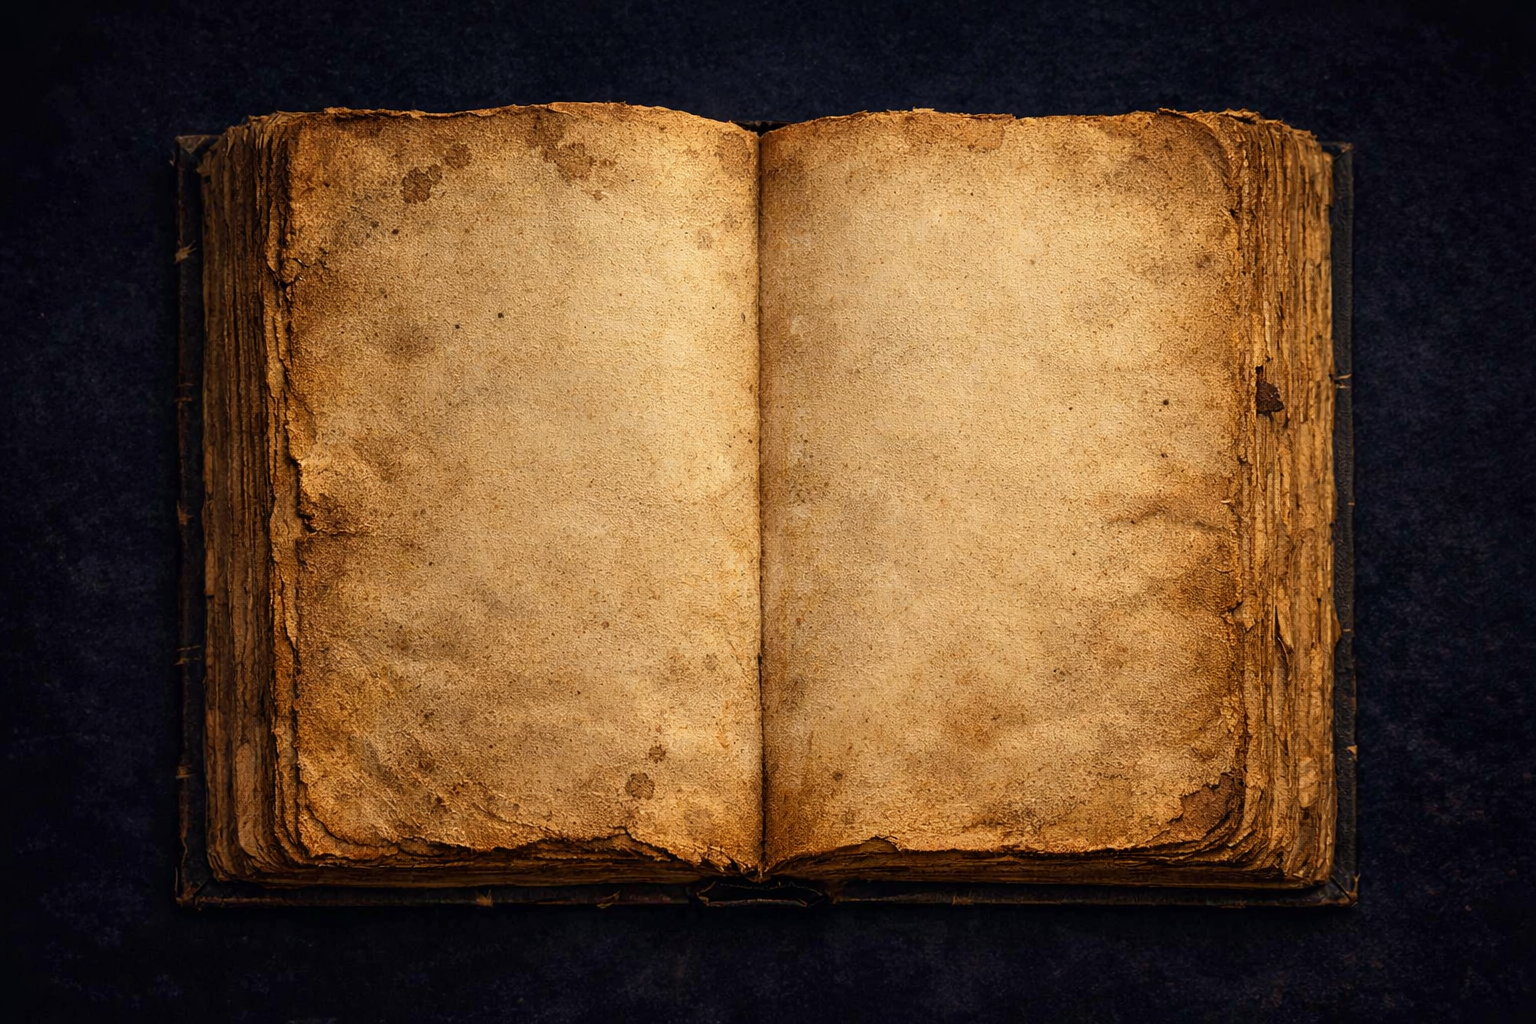
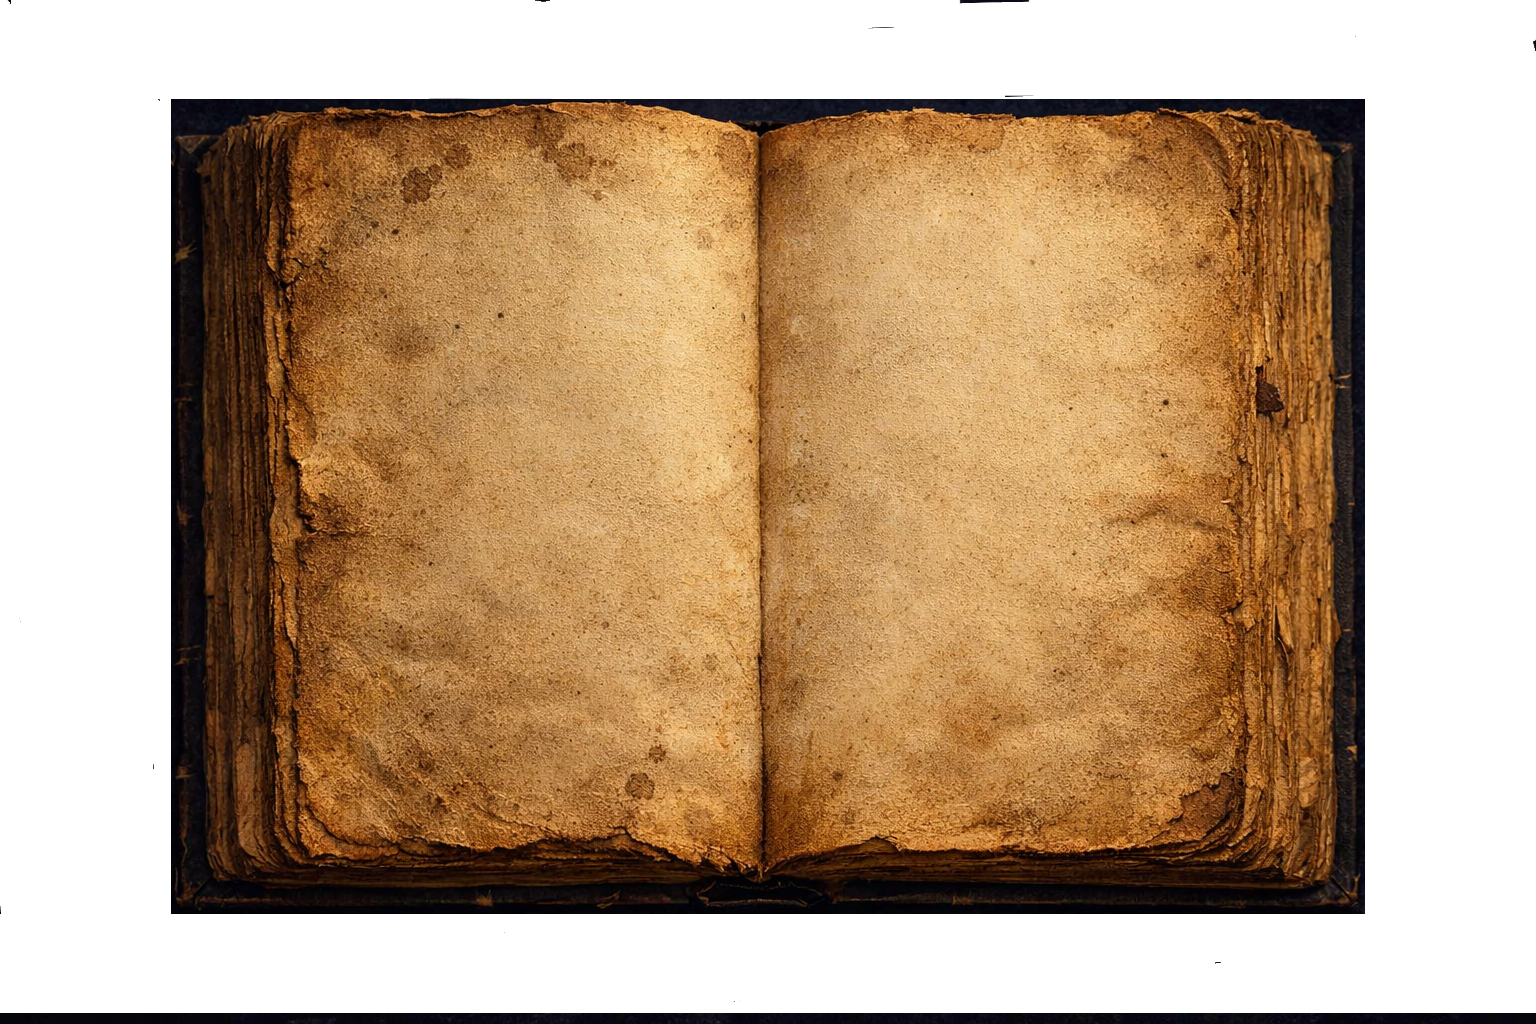
fix the errors seen on journal page and added photo with no black background

diff --git a/app/sanctuary/journal/page.tsx b/app/sanctuary/journal/page.tsx
@@ -6,6 +6,10 @@ type Stage = 'closed' | 'opening' | 'logo' | 'write';
 
 export default function JournalPage() {
   const [stage, setStage] = useState<Stage>('closed');
+  const [entries, setEntries] = useState<string[]>([]);
+  const [currentIndex, setCurrentIndex] = useState<number | null>(null);
+  const [draft, setDraft] = useState('');
+  const [turnDirection, setTurnDirection] = useState<'left' | 'right' | null>(null);
 
   const today = useMemo(() => {
     return new Date().toLocaleDateString(undefined, {
@@ -14,6 +18,30 @@ export default function JournalPage() {
       day: 'numeric',
     });
   }, []);
+
+  const handleSave = () => {
+    if (!draft.trim()) return;
+    setEntries(prev => {
+      const next = [...prev, draft.trim()];
+      setCurrentIndex(next.length - 1);
+      return next;
+    });
+    setDraft('');
+  };
+
+  const goToPage = (index: number, dir: 'left' | 'right') => {
+    if (index < 0 || index >= entries.length) return;
+    setTurnDirection(dir);
+    setTimeout(() => {
+      setCurrentIndex(index);
+      setTurnDirection(null);
+    }, 260);
+  };
+
+  const showNewPage = () => {
+    setCurrentIndex(null);
+    setDraft('');
+  };
 
   return (
     <div className="relative h-screen w-screen overflow-hidden bg-black">
@@ -81,55 +109,59 @@ export default function JournalPage() {
               }}
               onAnimationEnd={() => setStage('logo')}
             />
-
-            {/* KEYFRAMES */}
-            <style jsx>{`
-              .perspective-1000 {
-                perspective: 1000px;
-              }
-
-              @keyframes coverOpen {
-                from { transform: rotateY(0deg); }
-                to { transform: rotateY(-180deg); }
-              }
-
-              @keyframes pageFlip {
-                0% { transform: rotateY(0deg); opacity: 0; }
-                40% { opacity: 1; }
-                100% { transform: rotateY(-180deg); opacity: 0; }
-              }
-
-              @keyframes fadeIn {
-                from { opacity: 0; }
-                to { opacity: 1; }
-              }
-            `}</style>
           </div>
         )}
 
-        {/* LOGO PAGE */}
+        {/* LOGO PAGE WITH FADE TO PARCHMENT */}
         {stage === 'logo' && (
-          <div
-            className="relative w-[900px] max-w-[95vw] cursor-pointer"
-            onClick={() => setStage('write')}
-          >
+          <div className="relative w-[900px] max-w-[95vw]">
+            {/* OPEN BOOK FRAME */}
             <img
-              src="/images/sea-within-logo-page.jpg"
-              className="w-full h-auto rounded-lg shadow-[0_30px_60px_rgba(0,0,0,0.8)]"
+              src="/images/book-open-frame.png"
+              className="w-full h-auto drop-shadow-[0_30px_60px_rgba(0,0,0,0.8)]"
             />
-            <div className="absolute inset-0 flex items-center justify-center">
-              <span className="rounded-full bg-black/40 px-4 py-2 text-sm text-amber-100">
-                Tap to begin writing
-              </span>
+
+            {/* INNER PAGES */}
+            <div className="absolute inset-[7%] flex">
+              {/* LEFT PAGE: LOGO FADES TO PARCHMENT */}
+              <div className="relative flex-1 mr-4">
+                <img
+                  src="/images/parchment-page.png"
+                  className="absolute inset-0 w-full h-full object-cover rounded-md"
+                />
+                <img
+                  src="/images/sea-within-logo-page.png"
+                  className="absolute inset-0 w-full h-full object-cover rounded-md animate-logoFade"
+                />
+              </div>
+
+              {/* RIGHT PAGE: TAP TO BEGIN WRITING */}
+              <div className="relative flex-1 ml-4">
+                <button
+                  type="button"
+                  onClick={() => setStage('write')}
+                  className="relative h-full w-full"
+                >
+                  <img
+                    src="/images/parchment-page.png"
+                    className="absolute inset-0 w-full h-full object-cover rounded-md"
+                  />
+                  <div className="absolute inset-0 flex items-center justify-center">
+                    <span className="rounded-full bg-black/40 px-4 py-2 text-sm text-amber-100">
+                      Tap to begin writing
+                    </span>
+                  </div>
+                </button>
+              </div>
             </div>
           </div>
         )}
 
-        {/* WRITING PAGE */}
+        {/* WRITING PAGE WITH INK + PAGE TURNING */}
         {stage === 'write' && (
           <div className="relative w-[900px] max-w-[95vw]">
             <img
-              src="/images/parchment-page.jpg"
+              src="/images/parchment-page.png"
               className="w-full h-auto rounded-lg shadow-[0_30px_60px_rgba(0,0,0,0.8)]"
             />
 
@@ -139,23 +171,203 @@ export default function JournalPage() {
                 {today}
               </div>
 
-              {/* TEXTAREA */}
-              <textarea
-                className="mt-4 h-full w-full bg-transparent resize-none text-[#3b2414] text-lg leading-relaxed outline-none"
-                placeholder="Let the sea within you speak..."
-              />
+              {/* PAGE CONTENT AREA */}
+              <div className="mt-4 flex-1 overflow-hidden">
+                {currentIndex !== null && entries[currentIndex] ? (
+                  <div
+                    className={`h-full w-full ${turnDirection === 'left' ? 'page-turn-left' : ''} ${
+                      turnDirection === 'right' ? 'page-turn-right' : ''
+                    }`}
+                  >
+                    <div className="ink-writing whitespace-pre-wrap pr-2 h-full overflow-auto">
+                      {entries[currentIndex]}
+                    </div>
+                  </div>
+                ) : (
+                  <textarea
+                    className="mt-1 h-full w-full bg-transparent resize-none text-[#3b2414] text-lg leading-relaxed outline-none"
+                    placeholder="Let the sea within you speak..."
+                    value={draft}
+                    onChange={e => setDraft(e.target.value)}
+                  />
+                )}
+              </div>
 
-              {/* SAVE BUTTON */}
-              <div className="mt-4 flex justify-end">
-                <button className="rounded-full bg-amber-200/80 px-5 py-2 text-sm font-semibold text-[#3b2414] shadow-md shadow-black/30 hover:bg-amber-300">
-                  Save to my book
-                </button>
+              {/* CONTROLS */}
+              <div className="mt-4 flex items-center justify-between gap-3">
+                <div className="flex gap-2">
+                  <button
+                    type="button"
+                    onClick={() =>
+                      currentIndex !== null
+                        ? goToPage(currentIndex - 1, 'left')
+                        : goToPage(entries.length - 2, 'left')
+                    }
+                    disabled={entries.length <= 1 || currentIndex === 0 || currentIndex === null}
+                    className="rounded-full bg-amber-200/70 px-4 py-1 text-xs font-semibold text-[#3b2414] shadow-sm shadow-black/20 disabled:opacity-40"
+                  >
+                    ◀ Previous page
+                  </button>
+                  <button
+                    type="button"
+                    onClick={() =>
+                      currentIndex !== null
+                        ? goToPage(currentIndex + 1, 'right')
+                        : undefined
+                    }
+                    disabled={
+                      currentIndex === null ||
+                      currentIndex === entries.length - 1 ||
+                      entries.length === 0
+                    }
+                    className="rounded-full bg-amber-200/70 px-4 py-1 text-xs font-semibold text-[#3b2414] shadow-sm shadow-black/20 disabled:opacity-40"
+                  >
+                    Next page ▶
+                  </button>
+                </div>
+
+                <div className="flex gap-2">
+                  <button
+                    type="button"
+                    onClick={showNewPage}
+                    className="rounded-full bg-amber-100/80 px-4 py-1 text-xs font-semibold text-[#3b2414] shadow-sm shadow-black/20"
+                  >
+                    Write new page
+                  </button>
+                  <button
+                    type="button"
+                    onClick={handleSave}
+                    className="rounded-full bg-amber-200/80 px-5 py-2 text-sm font-semibold text-[#3b2414] shadow-md shadow-black/30 hover:bg-amber-300"
+                  >
+                    Save to my book
+                  </button>
+                </div>
               </div>
             </div>
           </div>
         )}
 
       </div>
+
+      {/* GLOBAL ANIMATIONS */}
+      <style jsx global>{`
+        .perspective-1000 {
+          perspective: 1000px;
+        }
+
+        @keyframes coverOpen {
+          from {
+            transform: rotateY(0deg);
+          }
+          to {
+            transform: rotateY(-180deg);
+          }
+        }
+
+        @keyframes pageFlip {
+          0% {
+            transform: rotateY(0deg);
+            opacity: 0;
+          }
+          40% {
+            opacity: 1;
+          }
+          100% {
+            transform: rotateY(-180deg);
+            opacity: 0;
+          }
+        }
+
+        @keyframes fadeIn {
+          from {
+            opacity: 0;
+          }
+          to {
+            opacity: 1;
+          }
+        }
+
+        @keyframes logoFade {
+          0% {
+            opacity: 1;
+          }
+          100% {
+            opacity: 0;
+          }
+        }
+
+        .animate-logoFade {
+          animation: logoFade 2.5s ease-out forwards;
+          animation-delay: 0.6s;
+        }
+
+        @keyframes inkWrite {
+          0% {
+            opacity: 0;
+            filter: blur(3px) brightness(0.7);
+            transform: translateY(4px);
+          }
+          40% {
+            opacity: 0.4;
+            filter: blur(2px) brightness(0.85);
+          }
+          100% {
+            opacity: 1;
+            filter: blur(0px) brightness(1);
+            transform: translateY(0);
+          }
+        }
+
+        .ink-writing {
+          font-family: 'Cormorant Garamond', serif;
+          font-style: italic;
+          color: #3b2414;
+          letter-spacing: 0.4px;
+          opacity: 0;
+          animation: inkWrite 2.8s ease-out forwards;
+          animation-delay: 0.4s;
+          text-shadow:
+            0 0 1px rgba(30, 18, 10, 0.5),
+            0 1px 2px rgba(30, 18, 10, 0.35),
+            0 2px 4px rgba(30, 18, 10, 0.25),
+            0 0 12px rgba(30, 18, 10, 0.15);
+          filter: brightness(0.92) contrast(1.08) saturate(0.9);
+        }
+
+        @keyframes pageTurnLeft {
+          0% {
+            transform-origin: left center;
+            transform: rotateY(0deg);
+            box-shadow: 0 0 0 rgba(0, 0, 0, 0);
+          }
+          100% {
+            transform-origin: left center;
+            transform: rotateY(-14deg);
+            box-shadow: 0 18px 35px rgba(0, 0, 0, 0.45);
+          }
+        }
+
+        @keyframes pageTurnRight {
+          0% {
+            transform-origin: right center;
+            transform: rotateY(0deg);
+            box-shadow: 0 0 0 rgba(0, 0, 0, 0);
+          }
+          100% {
+            transform-origin: right center;
+            transform: rotateY(14deg);
+            box-shadow: 0 18px 35px rgba(0, 0, 0, 0.45);
+          }
+        }
+
+        .page-turn-left {
+          animation: pageTurnLeft 0.26s ease-out;
+        }
+
+        .page-turn-right {
+          animation: pageTurnRight 0.26s ease-out;
+        }
+      `}</style>
     </div>
   );
 }
